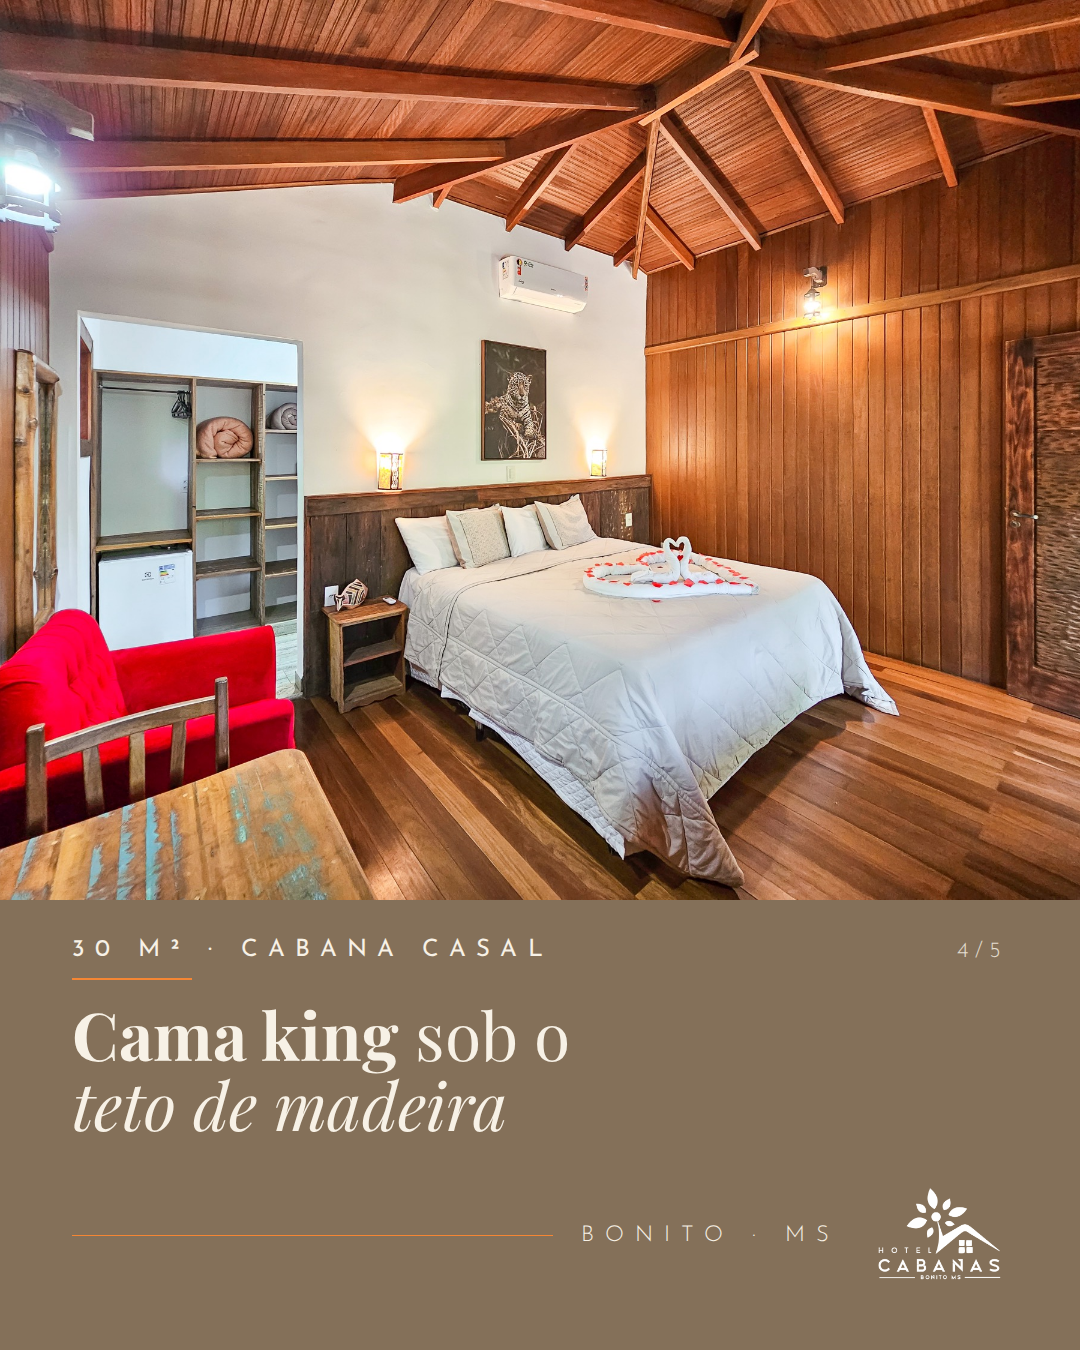
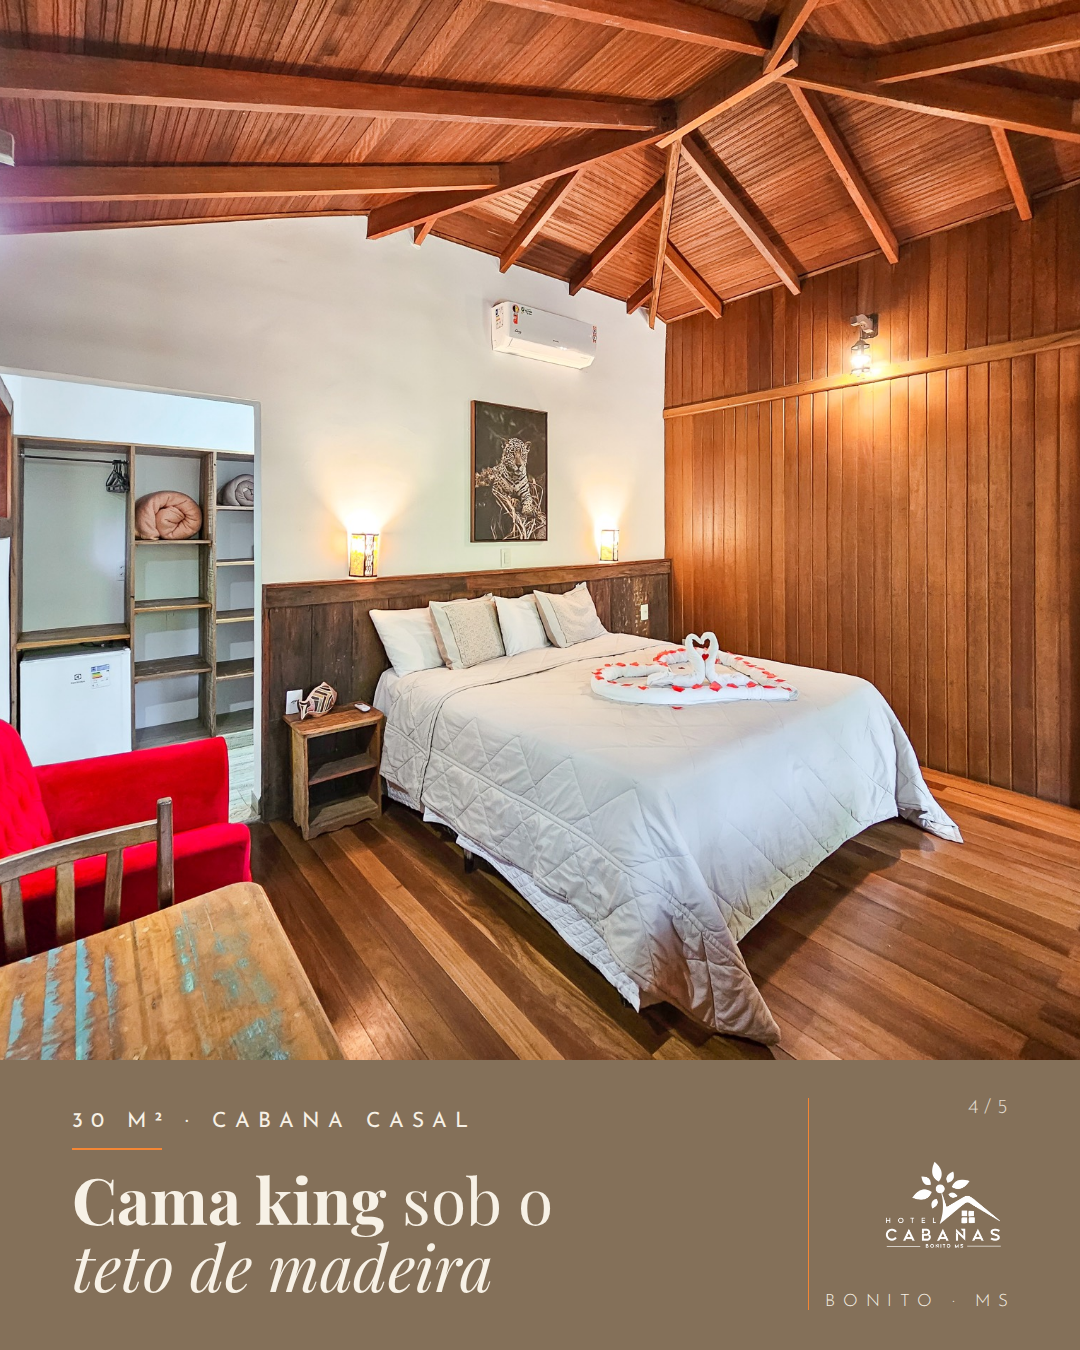
Designer: carrossel da Cabana Casal com faixa discreta (ajuste do dono)
Faixa de 450 para 290 px (21,5% da altura); assinatura em coluna à direita.
Versão anterior da tela 1 e CSS guardados para comparação.

Claude-Session: https://claude.ai/code/session_01GffBmxQFJnfaKwiJFV7qgT

diff --git a/design/pecas/2026-10-carrossel-cabana-casal/carrossel.css b/design/pecas/2026-10-carrossel-cabana-casal/carrossel.css
@@ -1,25 +1,34 @@
-/* Carrossel Cabana Casal (5 telas 4:5, 1080 x 1350).
-   Mesmo layout nas 5 telas: foto real no alto (1080 x 900, nada escondido atrás do texto)
-   + rodapé editorial marrom de largura total (450 px) com apoio, linha laranja, título e assinatura.
-   Fotos claras de dia: texto creme só dentro da faixa marrom, nunca direto sobre a foto. */
+/* Carrossel Cabana Casal (5 telas 4:5, 1080 x 1350). Ajuste 1: faixa discreta.
+   Mesmo layout nas 5 telas: foto real no alto (1080 x 1060, nada escondido atrás do texto)
+   + faixa marrom de largura total com 290 px (21,5% da altura).
+   Faixa em duas colunas: à esquerda apoio, linha laranja curta e título;
+   à direita numeração, logo branco e B O N I T O · M S, separados por um fio laranja vertical.
+   Fotos claras de dia: texto creme só dentro da faixa marrom, nunca direto sobre a foto.
+   Versão anterior (faixa de 450 px): v1-carrossel.css. */
 
-.foto { height: 900px; bottom: auto; }
+.foto { height: 1060px; bottom: auto; }
 
 .rodape.faixa {
-  position: absolute; left: 0; right: 0; bottom: 0; height: 450px; display: flex; flex-direction: column;
-  padding: 38px var(--margem) 60px;
+  position: absolute; left: 0; right: 0; bottom: 0; height: 290px;
+  display: flex; align-items: stretch; gap: 44px;
+  padding: 38px var(--margem) 40px;
 }
-.rodape .apoio { font-size: 24px; }
-.rodape .linha { margin: 16px 0 20px; }
-.rodape .titulo { font-size: 66px; line-height: 1.06; text-shadow: none; }
+
+/* Coluna do texto */
+.rodape .texto { flex: 1; display: flex; flex-direction: column; justify-content: center; min-width: 0; }
+.rodape .apoio { font-size: 21px; letter-spacing: .38em; line-height: 1.2; }
+.rodape .linha { width: 90px; margin: 14px 0 16px; }
+.rodape .titulo { font-size: 64px; line-height: 1.04; text-shadow: none; }
 
 /* Linhas de contato da tela 5 (creme: laranja sobre marrom não tem contraste) */
-.rodape .contato { font-family: "Josefin Sans", sans-serif; font-weight: 400; font-size: 27px; letter-spacing: .05em; line-height: 1.5; margin-top: 12px; }
-.rodape .contato b { font-weight: 600; letter-spacing: .2em; text-transform: uppercase; font-size: 21px; margin-right: 14px; }
+.rodape .contato { font-family: "Josefin Sans", sans-serif; font-weight: 400; font-size: 24px; letter-spacing: .04em; line-height: 1.4; margin-top: 14px; }
+.rodape .contato b { font-weight: 600; letter-spacing: .2em; text-transform: uppercase; font-size: 19px; margin-right: 12px; }
 
-/* Assinatura sempre encostada na base do rodapé; logo branco com 110 px de altura */
-.rodape .assinatura { position: static; margin-top: auto; }
-.rodape .assinatura img { height: 110px; }
-
-/* Numeração discreta da tela, dentro da faixa (canto direito, alinhada ao apoio) */
-.rodape .num { position: absolute; top: 40px; right: var(--margem); font-family: "Josefin Sans", sans-serif; font-weight: 300; font-size: 22px; letter-spacing: .3em; opacity: .85; }
+/* Coluna da assinatura: fio laranja vertical + numeração + logo branco (104 px) + BONITO · MS */
+.rodape .marca {
+  flex: none; width: 200px; border-left: 1px solid var(--laranja);
+  display: flex; flex-direction: column; align-items: flex-end; justify-content: space-between;
+}
+.rodape .num { font-family: "Josefin Sans", sans-serif; font-weight: 300; font-size: 20px; letter-spacing: .3em; margin-right: -.3em; opacity: .85; }
+.rodape .marca img { height: 104px; width: auto; display: block; }
+.rodape .marca .local { font-family: "Josefin Sans", sans-serif; font-weight: 300; font-size: 17px; letter-spacing: .45em; margin-right: -.45em; text-transform: uppercase; white-space: nowrap; }

diff --git a/design/pecas/2026-10-carrossel-cabana-casal/v1-carrossel.css b/design/pecas/2026-10-carrossel-cabana-casal/v1-carrossel.css
@@ -1,0 +1,25 @@
+/* Carrossel Cabana Casal (5 telas 4:5, 1080 x 1350).
+   Mesmo layout nas 5 telas: foto real no alto (1080 x 900, nada escondido atrás do texto)
+   + rodapé editorial marrom de largura total (450 px) com apoio, linha laranja, título e assinatura.
+   Fotos claras de dia: texto creme só dentro da faixa marrom, nunca direto sobre a foto. */
+
+.foto { height: 900px; bottom: auto; }
+
+.rodape.faixa {
+  position: absolute; left: 0; right: 0; bottom: 0; height: 450px; display: flex; flex-direction: column;
+  padding: 38px var(--margem) 60px;
+}
+.rodape .apoio { font-size: 24px; }
+.rodape .linha { margin: 16px 0 20px; }
+.rodape .titulo { font-size: 66px; line-height: 1.06; text-shadow: none; }
+
+/* Linhas de contato da tela 5 (creme: laranja sobre marrom não tem contraste) */
+.rodape .contato { font-family: "Josefin Sans", sans-serif; font-weight: 400; font-size: 27px; letter-spacing: .05em; line-height: 1.5; margin-top: 12px; }
+.rodape .contato b { font-weight: 600; letter-spacing: .2em; text-transform: uppercase; font-size: 21px; margin-right: 14px; }
+
+/* Assinatura sempre encostada na base do rodapé; logo branco com 110 px de altura */
+.rodape .assinatura { position: static; margin-top: auto; }
+.rodape .assinatura img { height: 110px; }
+
+/* Numeração discreta da tela, dentro da faixa (canto direito, alinhada ao apoio) */
+.rodape .num { position: absolute; top: 40px; right: var(--margem); font-family: "Josefin Sans", sans-serif; font-weight: 300; font-size: 22px; letter-spacing: .3em; opacity: .85; }

diff --git a/design/pecas/2026-10-carrossel-cabana-casal/peca-5.html b/design/pecas/2026-10-carrossel-cabana-casal/peca-5.html
@@ -1,5 +1,5 @@
 <!doctype html>
-<!-- Carrossel Cabana Casal, tela 5/5 | Feed 4:5 (1080 x 1350) | Pilar 1 | Persona: Casais -->
+<!-- Carrossel Cabana Casal, tela 5/5 | Feed 4:5 (1080 x 1350) | Pilar 1 | Persona: Casais | Ajuste 1: faixa discreta (290 px); sem apoio nesta tela para caber o site e o WhatsApp -->
 <html lang="pt-BR">
 <head>
 <meta charset="utf-8">
@@ -11,15 +11,14 @@
 <div class="peca">
   <img class="foto" src="foto-5.jpg" alt="">
   <div class="rodape faixa">
-    <span class="num">5/5</span>
-    <p class="apoio">Garagem privativa embaixo</p>
-    <div class="linha"></div>
-    <h1 class="titulo"><b>Reserve</b> <i>direto</i> com a gente</h1>
-    <p class="contato"><b>Site</b>sbreserva.silbeck.com.br/hotelcabanas<br><b>WhatsApp</b>(67) 99117-1648</p>
-    <div class="assinatura">
-      <div class="fio"></div>
-      <span class="local">Bonito · MS</span>
+    <div class="texto">
+      <h1 class="titulo"><b>Reserve</b> <i>direto</i><br>com a gente</h1>
+      <p class="contato"><b>Site</b>sbreserva.silbeck.com.br/hotelcabanas<br><b>WhatsApp</b>(67) 99117-1648</p>
+    </div>
+    <div class="marca">
+      <span class="num">5/5</span>
       <img src="../../../contexto/marca/logo-hotel-cabanas-branco.png" alt="Hotel Cabanas">
+      <span class="local">Bonito · MS</span>
     </div>
   </div>
 </div>

diff --git a/design/pecas/2026-10-carrossel-cabana-casal/peca-4.html b/design/pecas/2026-10-carrossel-cabana-casal/peca-4.html
@@ -1,5 +1,5 @@
 <!doctype html>
-<!-- Carrossel Cabana Casal, tela 4/5 | Feed 4:5 (1080 x 1350) | Pilar 1 | Persona: Casais -->
+<!-- Carrossel Cabana Casal, tela 4/5 | Feed 4:5 (1080 x 1350) | Pilar 1 | Persona: Casais | Ajuste 1: faixa discreta (290 px) -->
 <html lang="pt-BR">
 <head>
 <meta charset="utf-8">
@@ -11,14 +11,15 @@
 <div class="peca">
   <img class="foto" src="foto-4.jpg" alt="">
   <div class="rodape faixa">
-    <span class="num">4/5</span>
-    <p class="apoio">30 m² · Cabana Casal</p>
-    <div class="linha"></div>
-    <h1 class="titulo"><b>Cama king</b> sob o<br><i>teto de madeira</i></h1>
-    <div class="assinatura">
-      <div class="fio"></div>
-      <span class="local">Bonito · MS</span>
+    <div class="texto">
+      <p class="apoio">30 m² · Cabana Casal</p>
+      <div class="linha"></div>
+      <h1 class="titulo"><b>Cama king</b> sob o<br><i>teto de madeira</i></h1>
+    </div>
+    <div class="marca">
+      <span class="num">4/5</span>
       <img src="../../../contexto/marca/logo-hotel-cabanas-branco.png" alt="Hotel Cabanas">
+      <span class="local">Bonito · MS</span>
     </div>
   </div>
 </div>

diff --git a/design/pecas/2026-10-carrossel-cabana-casal/peca-2.html b/design/pecas/2026-10-carrossel-cabana-casal/peca-2.html
@@ -1,5 +1,5 @@
 <!doctype html>
-<!-- Carrossel Cabana Casal, tela 2/5 | Feed 4:5 (1080 x 1350) | Pilar 1 | Persona: Casais -->
+<!-- Carrossel Cabana Casal, tela 2/5 | Feed 4:5 (1080 x 1350) | Pilar 1 | Persona: Casais | Ajuste 1: faixa discreta (290 px) -->
 <html lang="pt-BR">
 <head>
 <meta charset="utf-8">
@@ -11,14 +11,15 @@
 <div class="peca">
   <img class="foto" src="foto-2.jpg" alt="">
   <div class="rodape faixa">
-    <span class="num">2/5</span>
-    <p class="apoio">Madeira · acesso por escada</p>
-    <div class="linha"></div>
-    <h1 class="titulo"><b>3 metros</b> acima<br>do <i>chão</i></h1>
-    <div class="assinatura">
-      <div class="fio"></div>
-      <span class="local">Bonito · MS</span>
+    <div class="texto">
+      <p class="apoio">Madeira · acesso por escada</p>
+      <div class="linha"></div>
+      <h1 class="titulo"><b>3 metros</b> acima<br>do <i>chão</i></h1>
+    </div>
+    <div class="marca">
+      <span class="num">2/5</span>
       <img src="../../../contexto/marca/logo-hotel-cabanas-branco.png" alt="Hotel Cabanas">
+      <span class="local">Bonito · MS</span>
     </div>
   </div>
 </div>

diff --git a/design/pecas/2026-10-carrossel-cabana-casal/peca-1.html b/design/pecas/2026-10-carrossel-cabana-casal/peca-1.html
@@ -1,5 +1,5 @@
 <!doctype html>
-<!-- Carrossel Cabana Casal, tela 1/5 | Feed 4:5 (1080 x 1350) | Pilar 1 | Persona: Casais -->
+<!-- Carrossel Cabana Casal, tela 1/5 | Feed 4:5 (1080 x 1350) | Pilar 1 | Persona: Casais | Ajuste 1: faixa discreta (290 px) -->
 <html lang="pt-BR">
 <head>
 <meta charset="utf-8">
@@ -11,14 +11,15 @@
 <div class="peca">
   <img class="foto" src="foto-1.jpg" alt="">
   <div class="rodape faixa">
-    <span class="num">1/5</span>
-    <p class="apoio">Cabana Casal</p>
-    <div class="linha"></div>
-    <h1 class="titulo">Dormir na <b>altura</b><br>das <i>árvores</i></h1>
-    <div class="assinatura">
-      <div class="fio"></div>
-      <span class="local">Bonito · MS</span>
+    <div class="texto">
+      <p class="apoio">Cabana Casal</p>
+      <div class="linha"></div>
+      <h1 class="titulo">Dormir na <b>altura</b><br>das <i>árvores</i></h1>
+    </div>
+    <div class="marca">
+      <span class="num">1/5</span>
       <img src="../../../contexto/marca/logo-hotel-cabanas-branco.png" alt="Hotel Cabanas">
+      <span class="local">Bonito · MS</span>
     </div>
   </div>
 </div>

diff --git a/design/pecas/2026-10-carrossel-cabana-casal/peca-3.html b/design/pecas/2026-10-carrossel-cabana-casal/peca-3.html
@@ -1,5 +1,5 @@
 <!doctype html>
-<!-- Carrossel Cabana Casal, tela 3/5 | Feed 4:5 (1080 x 1350) | Pilar 1 | Persona: Casais -->
+<!-- Carrossel Cabana Casal, tela 3/5 | Feed 4:5 (1080 x 1350) | Pilar 1 | Persona: Casais | Ajuste 1: faixa discreta (290 px) -->
 <html lang="pt-BR">
 <head>
 <meta charset="utf-8">
@@ -11,14 +11,15 @@
 <div class="peca">
   <img class="foto" src="foto-3.jpg" alt="">
   <div class="rodape faixa">
-    <span class="num">3/5</span>
-    <p class="apoio">Varanda privativa</p>
-    <div class="linha"></div>
-    <h1 class="titulo">A <b>rede</b> na sua<br><i>varanda</i></h1>
-    <div class="assinatura">
-      <div class="fio"></div>
-      <span class="local">Bonito · MS</span>
+    <div class="texto">
+      <p class="apoio">Varanda privativa</p>
+      <div class="linha"></div>
+      <h1 class="titulo">A <b>rede</b> na sua<br><i>varanda</i></h1>
+    </div>
+    <div class="marca">
+      <span class="num">3/5</span>
       <img src="../../../contexto/marca/logo-hotel-cabanas-branco.png" alt="Hotel Cabanas">
+      <span class="local">Bonito · MS</span>
     </div>
   </div>
 </div>

diff --git a/design/pecas/2026-10-carrossel-cabana-casal/entrega.md b/design/pecas/2026-10-carrossel-cabana-casal/entrega.md
@@ -68,3 +68,24 @@ Não usei vista, rio, proximidade do rio, "romântico", ar-condicionado, TV, fri
 ## Para quem
 - **Você (dono):** pendências 1 a 4 e aprovação das 5 telas.
 - **Marketing (`marketing-anuncios`):** legenda do carrossel. Ela deve trazer os fatos (30 m², cama king, varanda privativa com rede, garagem privativa, não acomoda menores de 5 anos) e, conforme a pendência 1, a ressalva sobre a decoração.
+
+## Ajuste 1 (faixa discreta)
+**Seu pedido:** "gostei, mas achei a faixa marrom um pouco grande; gosto de algo mais discreto".
+
+**O que mudou (igual nas 5 telas):**
+| Item | Antes (v1) | Agora |
+|---|---|---|
+| Faixa marrom | 1080 × 450 px (33% da altura) | **1080 × 290 px (21,5% da altura)** |
+| Foto | 1080 × 900 px | **1080 × 1060 px** (+160 px de foto, 78,5% da tela) |
+| Título | Playfair 66 px | **Playfair 64 px** |
+| Apoio | 24 px | **21 px** |
+| Assinatura | fio laranja horizontal na largura toda + BONITO · MS + logo 110 px | **coluna à direita de 200 px**: fio laranja vertical (1 px) + numeração no alto + logo branco **104 px** + BONITO · MS (17 px) embaixo |
+| Numeração | 22 px, canto direito | 20 px, alto da coluna da assinatura |
+
+- **Escolha: faixa baixa de largura toda, não bloco compacto sobre a foto.** As fotos são 4:3 (paisagem). Para pôr um bloco sobre a foto, ela teria de ocupar a tela inteira (1350 px de altura), o que cortaria cerca de 40% das laterais: a cabana da tela 1 e as duas cabanas da tela 5 ficariam cortadas. Com a faixa de 290 px abaixo da foto, a foto ganha 160 px de altura e nada do essencial fica escondido.
+- **Marrom sólido, sem transparência:** a faixa não se sobrepõe à foto, então a transparência não mostraria nada além de preto. Nenhuma foto foi escurecida.
+- **Tela 5:** para caber o título em duas linhas mais o site e o WhatsApp (24 px, legíveis no celular), **tirei o apoio "GARAGEM PRIVATIVA EMBAIXO"** e a linha curta dessa tela. A garagem continua visível na foto; vale citá-la na legenda.
+- Margens: 72 px nas laterais, 38 px no alto e 40 px na base da faixa.
+- Arquivos: os PNGs `-1` a `-5` foram sobrescritos. A versão anterior da tela 1 está em `v1-2026-10-carrossel-cabana-casal-1.png` e o CSS anterior em `v1-carrossel.css` (para comparar ou voltar).
+- Os 5 PNGs novos foram abertos e conferidos (1080 × 1350, acentos, logo, margens, legibilidade).
+- As pendências 1 a 5 acima continuam valendo (em especial as toalhas em cisne da tela 4).
